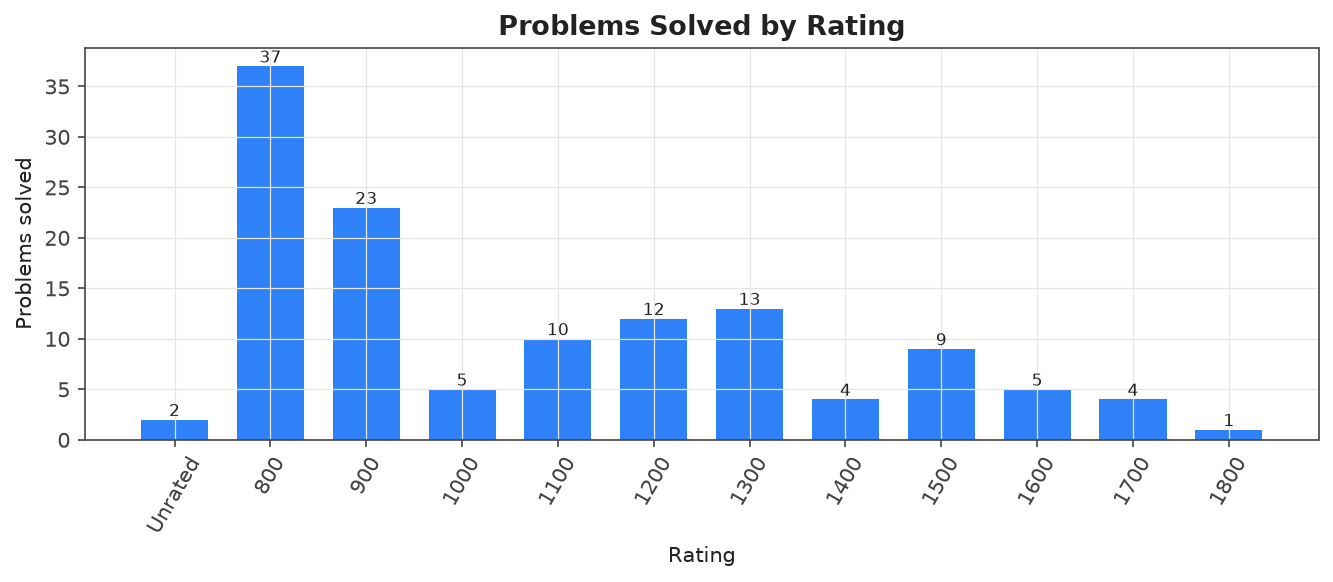
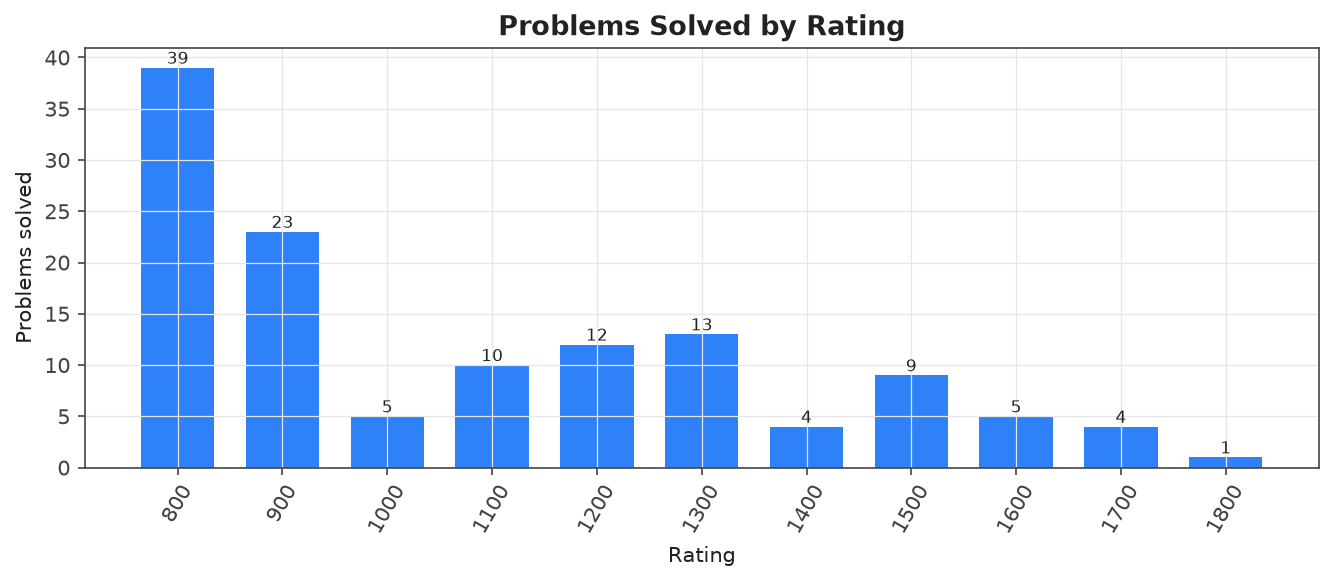
Sync: refresh analytics (rating/streak update, no new problems)

diff --git a/README.md b/README.md
@@ -37,7 +37,7 @@ Auto-generated archive of accepted Codeforces submissions for **[om_sharma_](htt
 
 | Rating | Count |
 |---|---|
-| 0800 | 37 |
+| 0800 | 39 |
 | 0900 | 23 |
 | 1000 | 5 |
 | 1100 | 10 |
@@ -48,7 +48,6 @@ Auto-generated archive of accepted Codeforces submissions for **[om_sharma_](htt
 | 1600 | 5 |
 | 1700 | 4 |
 | 1800 | 1 |
-| Unrated | 2 |
 
 ### By tag
 
@@ -87,8 +86,6 @@ Auto-generated archive of accepted Codeforces submissions for **[om_sharma_](htt
 
 | # | Problem | Rating | Tags | Code | Link |
 |---|---|---|---|---|---|
-| 2252A | [Boss Fight](problems/data-structures/Unrated_2252A-Boss-Fight) | ? | `data structures`, `greedy` | — | [CF](https://codeforces.com/contest/2252/problem/A) |
-| 2256A | [Three Numbers on the Blackboard](problems/math/Unrated_2256A-Three-Numbers-on-the-Blackboard) | ? | `math`, `sortings` | — | [CF](https://codeforces.com/contest/2256/problem/A) |
 | 4A | [Watermelon](problems/brute-force/0800_4A-Watermelon) | 800 | `brute force`, `math` | — | [CF](https://codeforces.com/contest/4/problem/A) |
 | 231A | [Team](problems/brute-force/0800_231A-Team) | 800 | `brute force`, `greedy` | — | [CF](https://codeforces.com/contest/231/problem/A) |
 | 263A | [Beautiful Matrix](problems/implementation/0800_263A-Beautiful-Matrix) | 800 | `implementation` | — | [CF](https://codeforces.com/contest/263/problem/A) |
@@ -126,6 +123,8 @@ Auto-generated archive of accepted Codeforces submissions for **[om_sharma_](htt
 | 2246A | [farmpiggie and Subset Sum](problems/constructive-algorithms/0800_2246A-farmpiggie-and-Subset-Sum) | 800 | `constructive algorithms` | — | [CF](https://codeforces.com/contest/2246/problem/A) |
 | 2247A | [Zero Sum](problems/constructive-algorithms/0800_2247A-Zero-Sum) | 800 | `constructive algorithms`, `dp`, `number theory` | — | [CF](https://codeforces.com/contest/2247/problem/A) |
 | 2248A | [You Delete, I Delete](problems/greedy/0800_2248A-You-Delete-I-Delete) | 800 | `greedy` | — | [CF](https://codeforces.com/contest/2248/problem/A) |
+| 2252A | [Boss Fight](problems/data-structures/0800_2252A-Boss-Fight) | 800 | `data structures`, `greedy` | — | [CF](https://codeforces.com/contest/2252/problem/A) |
+| 2256A | [Three Numbers on the Blackboard](problems/math/0800_2256A-Three-Numbers-on-the-Blackboard) | 800 | `math`, `sortings` | — | [CF](https://codeforces.com/contest/2256/problem/A) |
 | 337A | [Puzzles](problems/greedy/0900_337A-Puzzles) | 900 | `greedy` | — | [CF](https://codeforces.com/contest/337/problem/A) |
 | 1374B | [Multiply by 2, divide by 6](problems/math/0900_1374B-Multiply-by-2-divide-by-6) | 900 | `math` | — | [CF](https://codeforces.com/contest/1374/problem/B) |
 | 1440B | [Sum of Medians](problems/greedy/0900_1440B-Sum-of-Medians) | 900 | `greedy`, `math` | — | [CF](https://codeforces.com/contest/1440/problem/B) |
